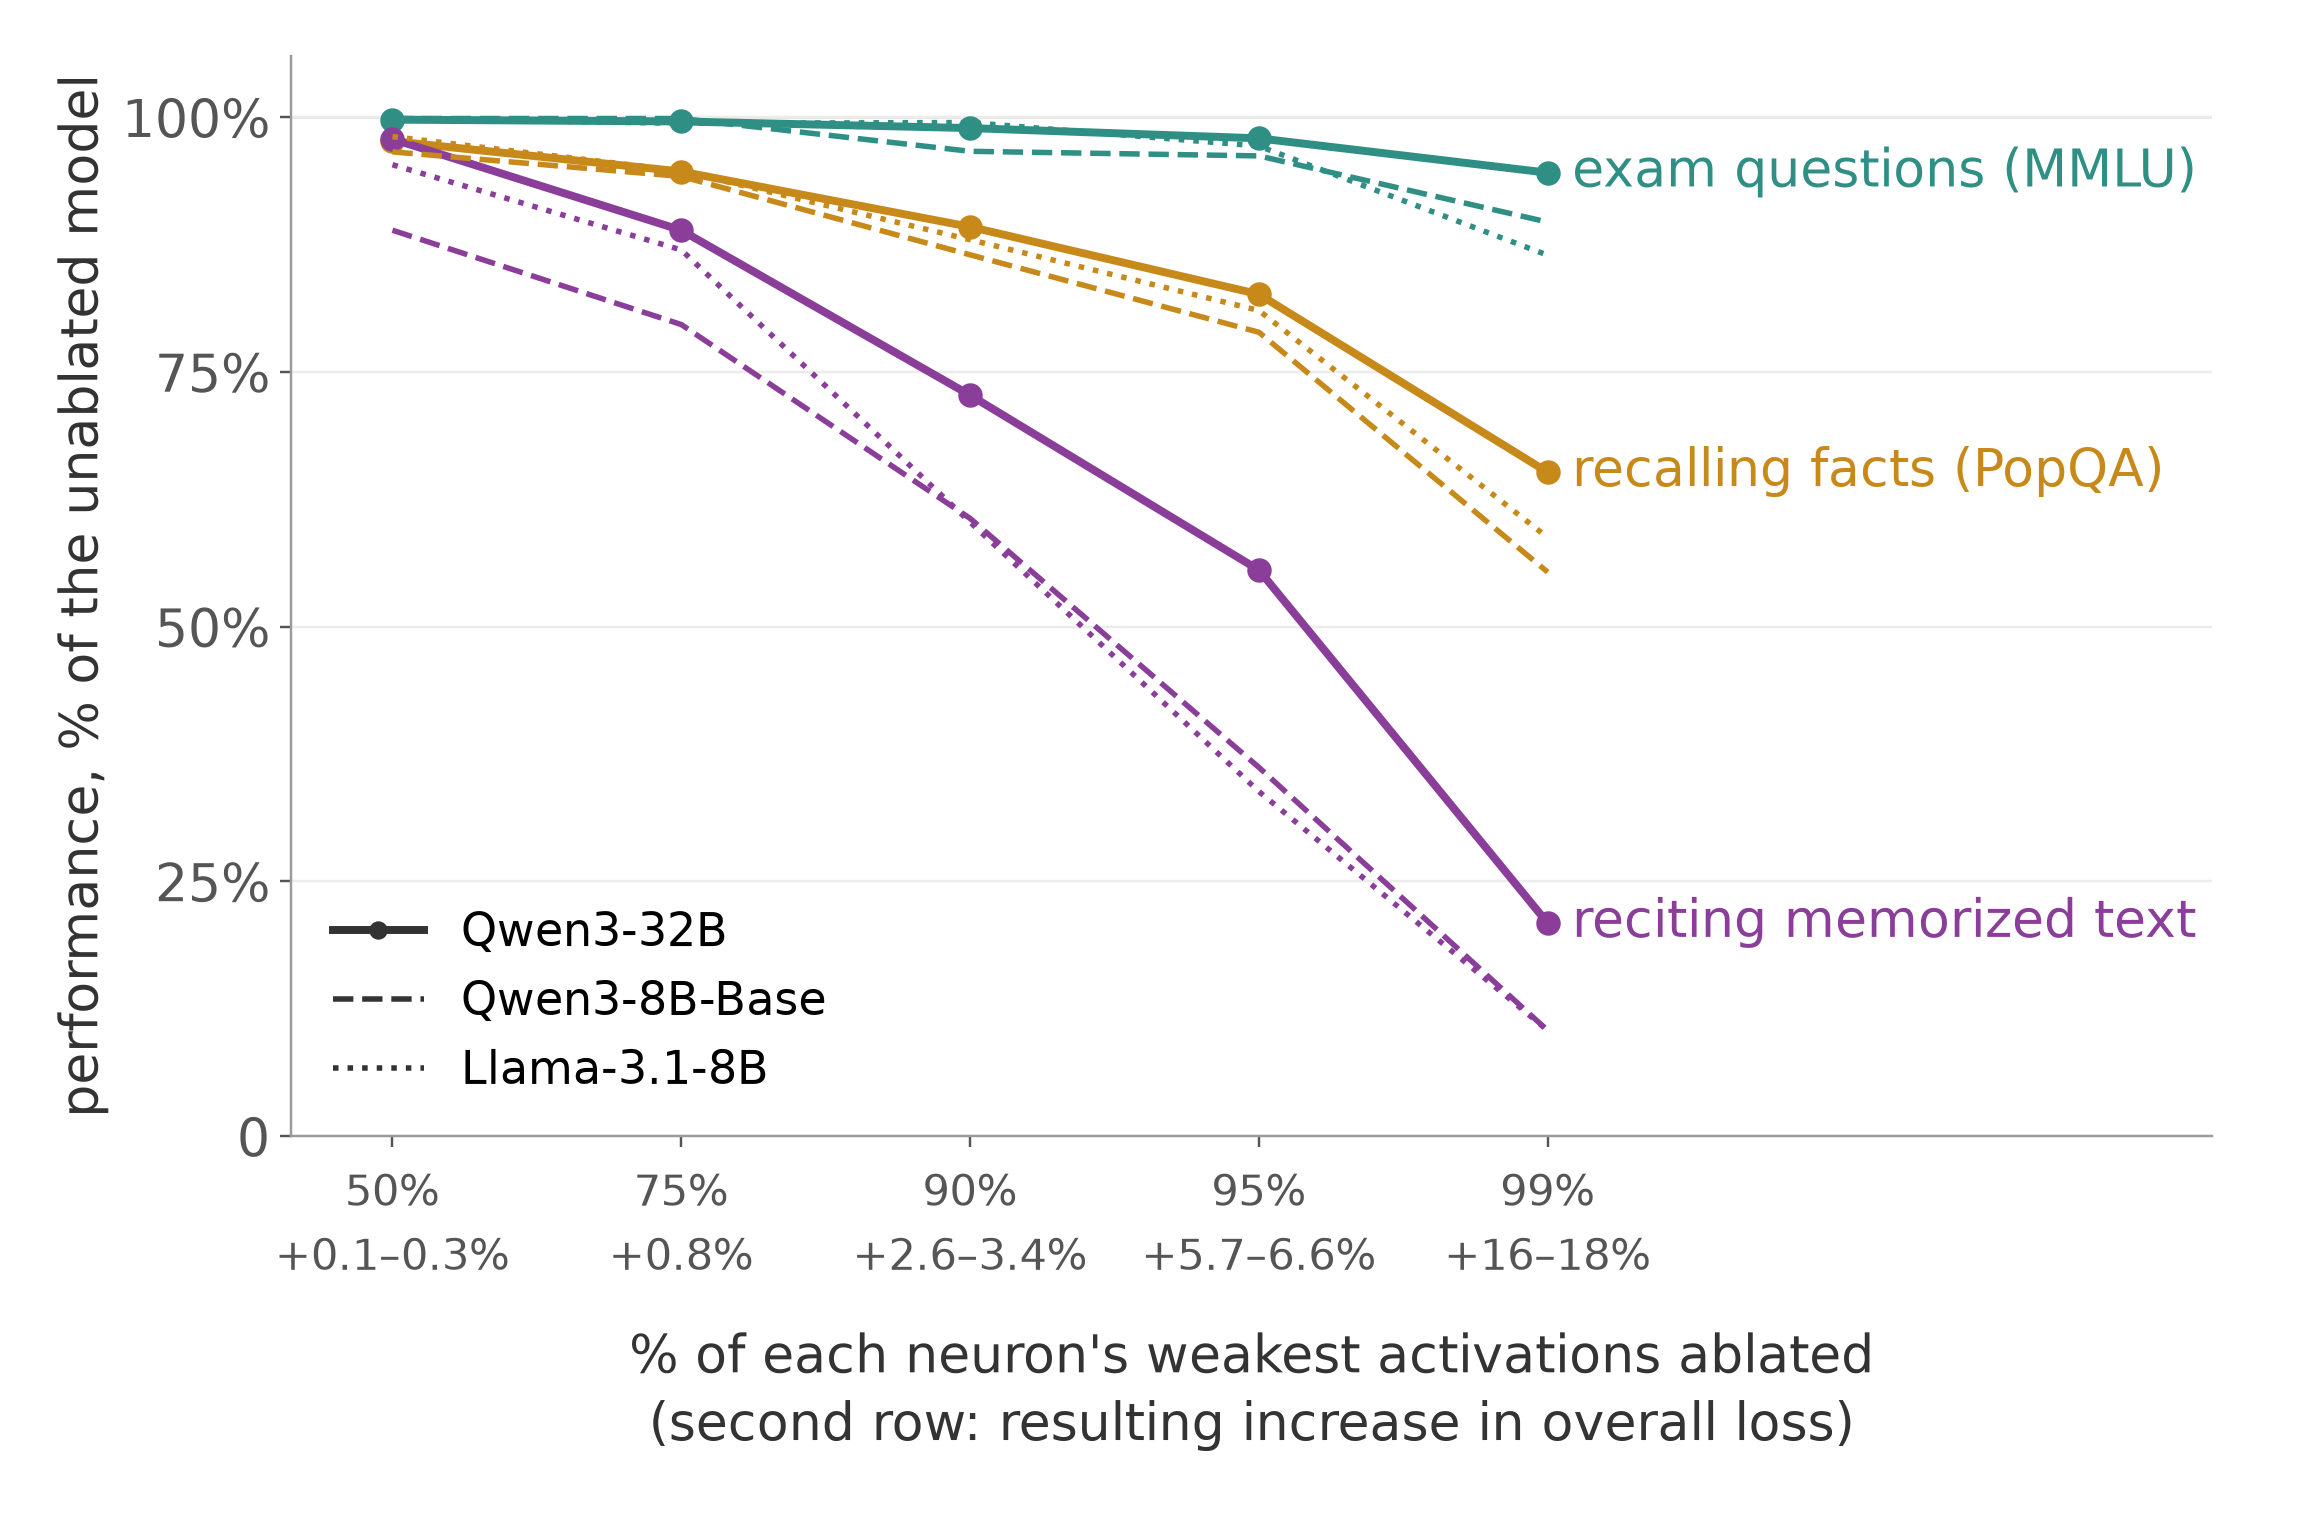
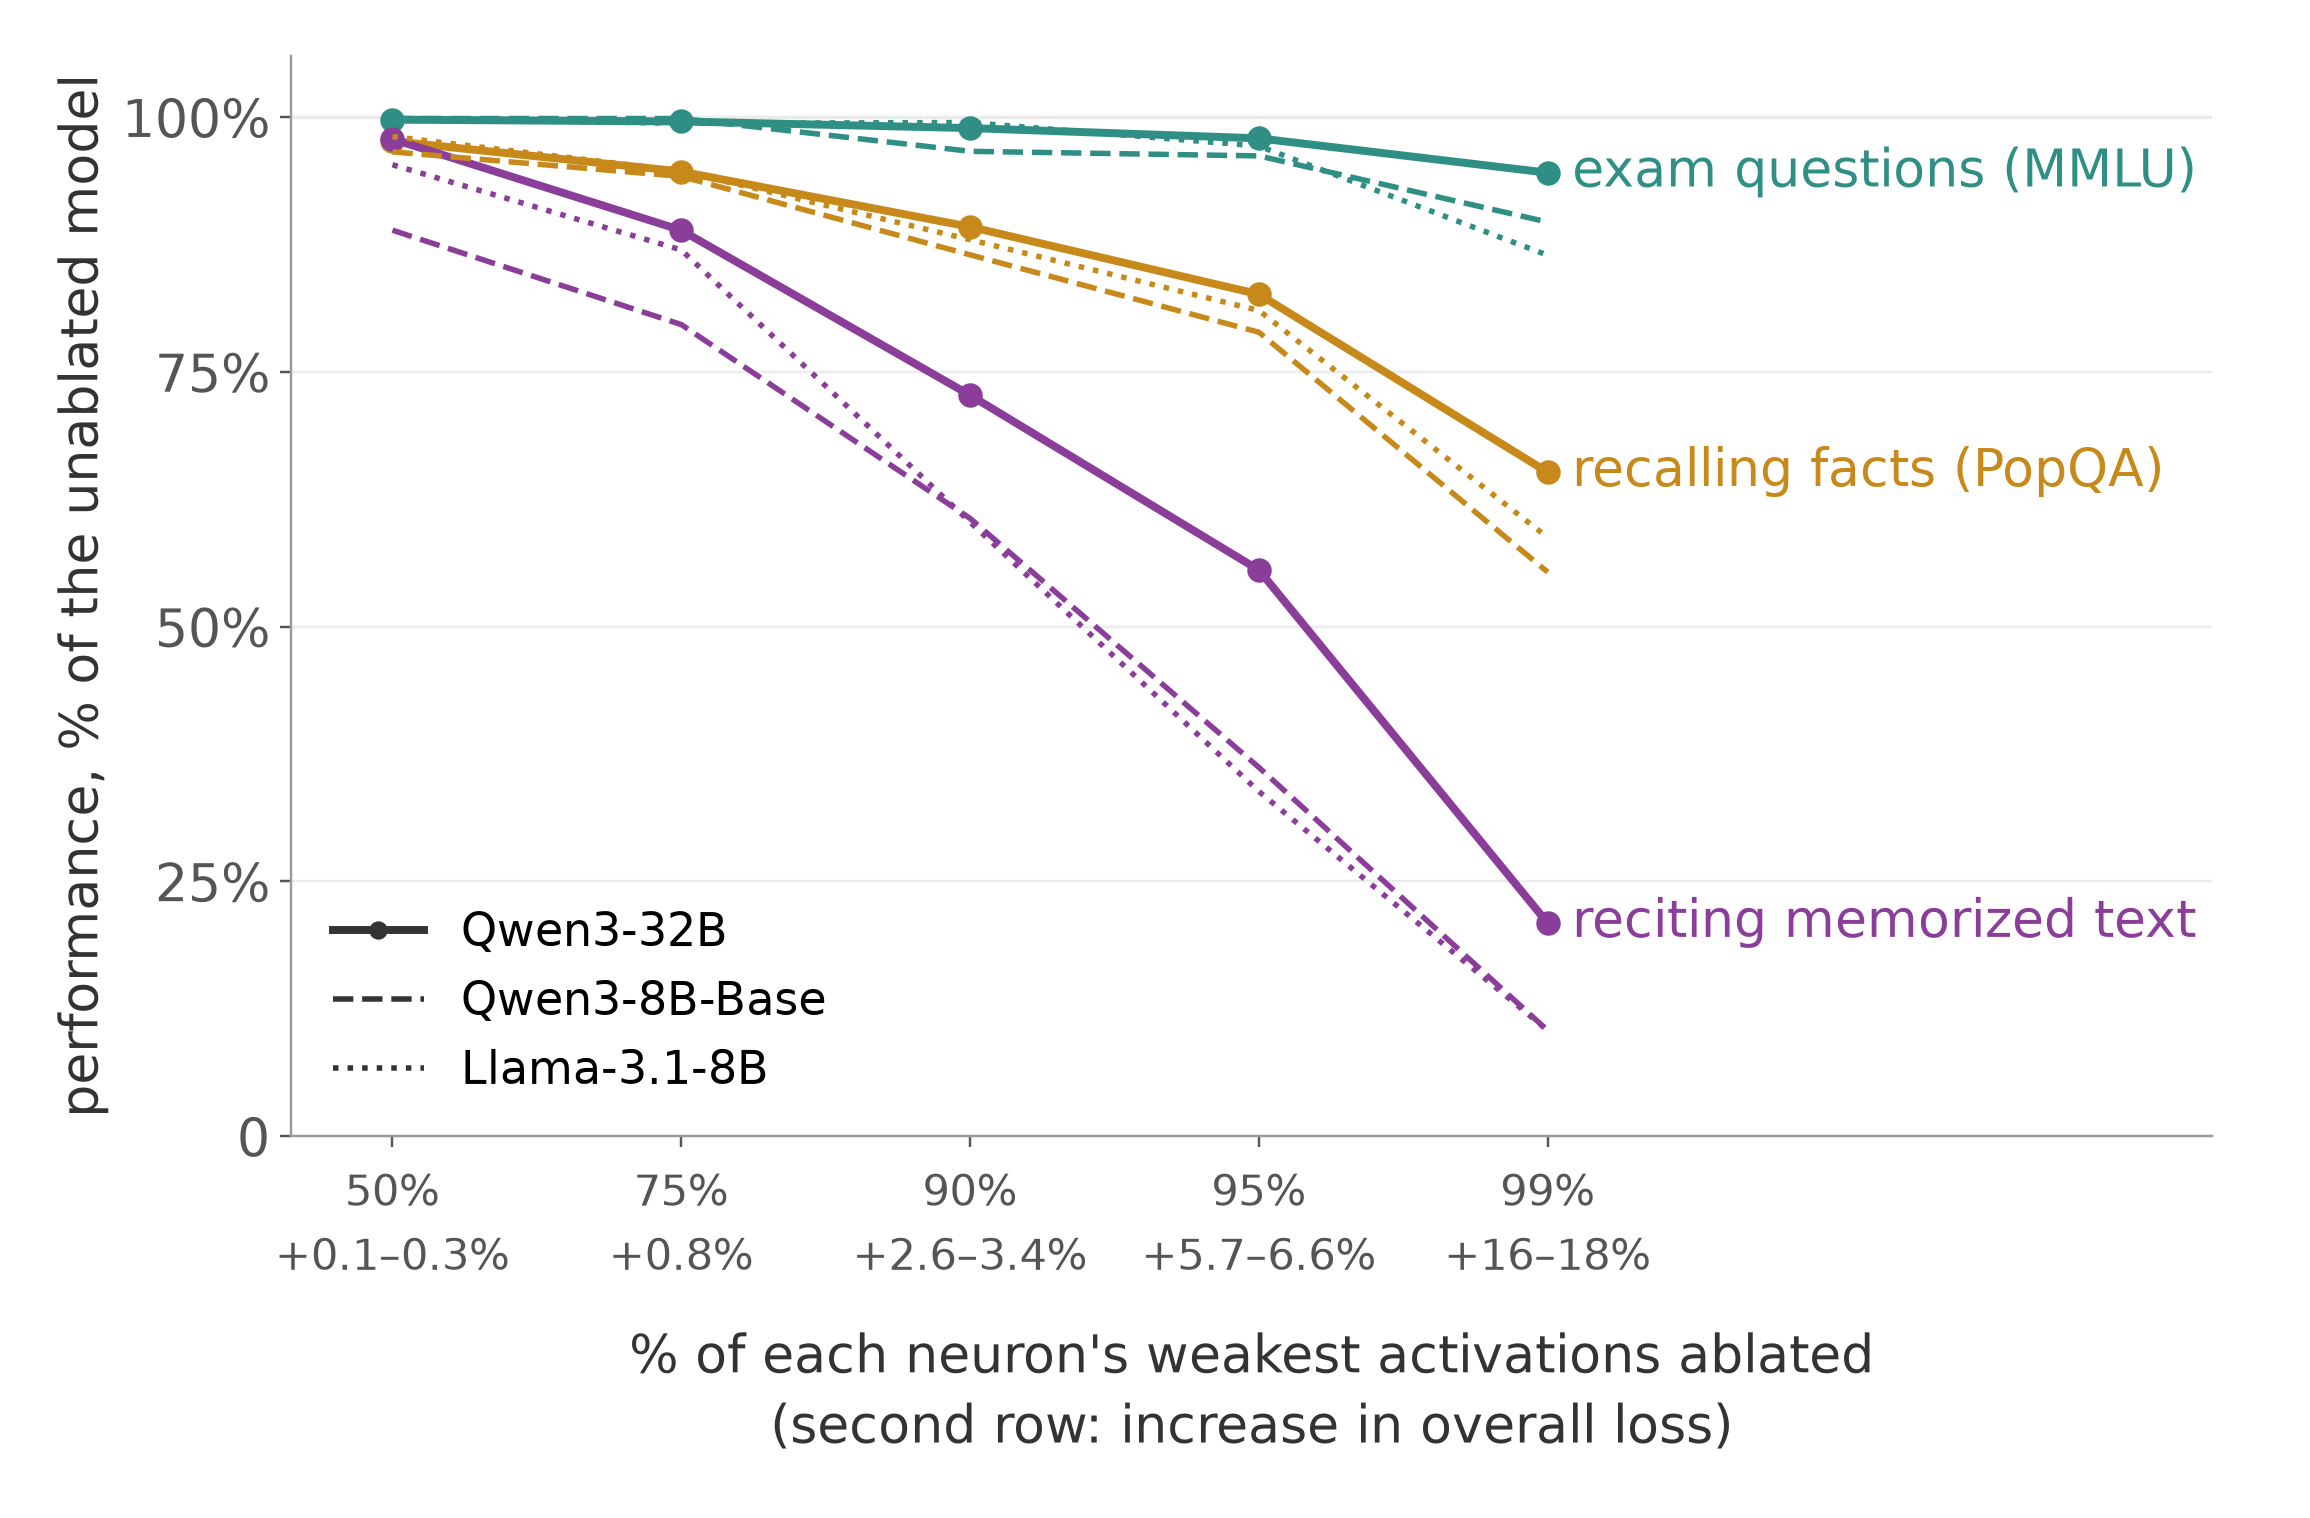
Tweet figure: shorter loss-row note

Changed region(s): [[0.2805, 0.9289, 0.8104, 0.9598]]

diff --git a/src/fig_tweet_all.py b/src/fig_tweet_all.py
@@ -38,7 +38,7 @@ if LOSS:
     ax.set_xticks(x); ax.set_xticklabels([f'{q}%\n{rng(L[q])}' for q in qs], fontsize=14, linespacing=1.5)
 else: ax.set_xticks(x); ax.set_xticklabels([f'{q}%' for q in qs], fontsize=15.5)
 ax.set_xlim(-0.35, len(qs) - 0.6 + 1.9); ax.set_ylim(0, 106); ax.set_yticks([0, 25, 50, 75, 100]); ax.set_yticklabels(['0', '25%', '50%', '75%', '100%'])
-ax.set_xlabel("% of each neuron's weakest activations ablated" + ("\n(second row: resulting increase in overall loss)" if LOSS else ''), labelpad=10, linespacing=1.4); ax.set_ylabel('performance, % of the unablated model')
+ax.set_xlabel("% of each neuron's weakest activations ablated" + ("\n(second row: increase in overall loss)" if LOSS else ''), labelpad=10, linespacing=1.4); ax.set_ylabel('performance, % of the unablated model')
 ax.grid(axis='y', color='#ececea')
 ax.legend(handles=[Line2D([], [], color=INK, ls=ls, lw=lw, marker='o' if ls == '-' else None, ms=5, label=m) for _, m, ls, lw in MODELS], frameon=False, loc='lower left', fontsize=15)
 fig.tight_layout(); out = os.path.join(ROOT, 'figures', OUT); fig.savefig(out, dpi=220); print('wrote', out)
